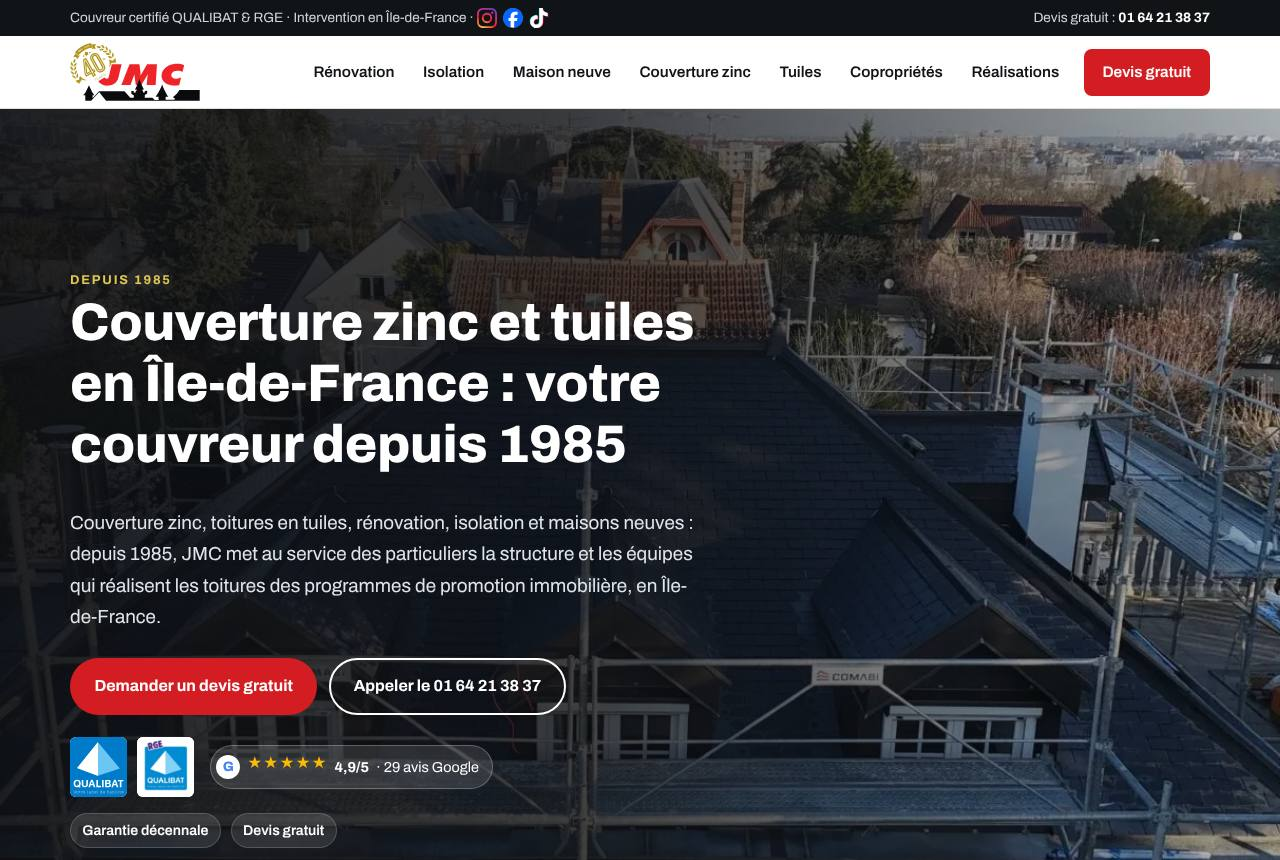
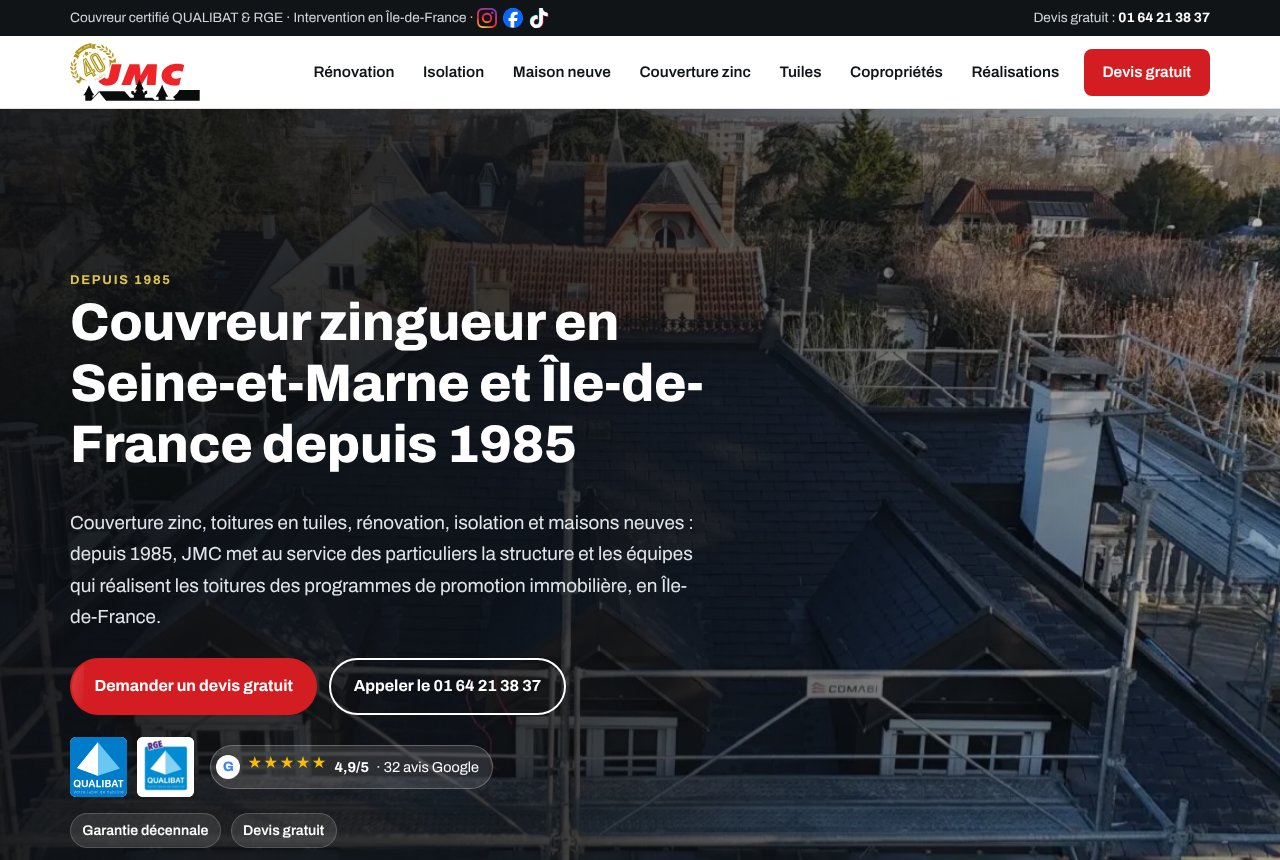
Refresh portfolio screenshots and client descriptions
Retake all six site screenshots. OF Entretiens has been redesigned
around building maintenance in Montfermeil and JMC Couverture now
presents itself as a roofer in Courtry (77); their cards, alt texts and
llms.txt entries follow the live sites.

Claude-Session: https://claude.ai/code/session_01DKCMmHoai7A45DxxNk3rN4

diff --git a/nastudio/sites.html b/nastudio/sites.html
@@ -147,11 +147,11 @@
         </div>
       </article>
       <article class="work">
-        <div class="shot"><img src="assets/shot-jmccouverture.jpg" width="1280" height="860" loading="lazy" alt="Page d'accueil du site JMC Couverture : couvreur zinc et tuiles en Île-de-France"></div>
+        <div class="shot"><img src="assets/shot-jmccouverture.jpg" width="1280" height="860" loading="lazy" alt="Page d'accueil du site JMC Couverture : couvreur zingueur en Seine-et-Marne et Île-de-France depuis 1985"></div>
         <div class="body">
-          <p class="meta mono"><span>Couverture · BTP</span><span>Île-de-France</span></p>
+          <p class="meta mono"><span>Couverture · BTP</span><span>Courtry (77) · Île-de-France</span></p>
           <h3>JMC Couverture</h3>
-          <p>Couvreur depuis 1985, certifié QUALIBAT &amp; RGE. Site avec vidéo drone des chantiers, pages par prestation et avis Google mis en avant.</p>
+          <p>Couvreur zingueur depuis 1985, certifié QUALIBAT &amp; RGE : zinc, tuiles, ardoise, isolation. Site avec vidéo drone des chantiers, pages par spécialité et avis Google mis en avant.</p>
           <div class="chips"><span class="chip">4,9/5 · 29 avis Google</span><span class="chip">QUALIBAT · RGE</span></div>
           <p class="visit"><a href="https://jmccouverture.com" target="_blank" rel="noopener">Visiter jmccouverture.com →</a></p>
         </div>
@@ -167,12 +167,12 @@
         </div>
       </article>
       <article class="work">
-        <div class="shot"><img src="assets/shot-ofentretiens.jpg" width="1280" height="860" loading="lazy" alt="Page d'accueil du site OF Entretiens : corvoyage, visites de livraison et interventions en Île-de-France"></div>
+        <div class="shot"><img src="assets/shot-ofentretiens.jpg" width="1280" height="860" loading="lazy" alt="Page d'accueil du site OF Entretiens : spécialiste de l'entretien de bâtiments à Montfermeil"></div>
         <div class="body">
-          <p class="meta mono"><span>Services au BTP</span><span>Montfermeil (93) · Île-de-France</span></p>
+          <p class="meta mono"><span>Entretien de bâtiments</span><span>Montfermeil (93) · Île-de-France</span></p>
           <h3>OF Entretiens</h3>
-          <p>Partenaire des promoteurs et plateformes logistiques : corvoyage, levée de réserves, urgences. Site orienté devis, pensé pour une clientèle B2B.</p>
-          <div class="chips"><span class="chip">B2B · promoteurs</span><span class="chip">8 départements couverts</span></div>
+          <p>Entretien de bâtiments pour les promoteurs et les entreprises : carottage en urgence, corvoyage, nettoyage de bureaux et de façades. Site avec estimation d'intervention en ligne, références clients et devis gratuit.</p>
+          <div class="chips"><span class="chip">Estimation en ligne</span><span class="chip">B2B · promoteurs</span></div>
           <p class="visit"><a href="https://www.ofentretiens.com" target="_blank" rel="noopener">Visiter ofentretiens.com →</a></p>
         </div>
       </article>

diff --git a/nastudio/index.html b/nastudio/index.html
@@ -428,8 +428,8 @@ footer::before{content:"";position:absolute;left:50%;top:-40%;width:90%;height:8
           <div class="b"><div class="m"><span>Bijouterie</span><span>Saint-Maur (94)</span></div><h3>Atelier Baratte · 5,0/5 Google</h3></div>
         </a>
         <a class="site-card rv" style="--i:1" href="https://jmccouverture.com" target="_blank" rel="noopener">
-          <div class="shot"><img src="assets/shot-jmccouverture.jpg" width="1280" height="860" loading="lazy" alt="Site du couvreur JMC Couverture en Île-de-France"></div>
-          <div class="b"><div class="m"><span>Couverture</span><span>Île-de-France</span></div><h3>JMC Couverture · QUALIBAT RGE</h3></div>
+          <div class="shot"><img src="assets/shot-jmccouverture.jpg" width="1280" height="860" loading="lazy" alt="Site du couvreur zingueur JMC Couverture en Seine-et-Marne et Île-de-France"></div>
+          <div class="b"><div class="m"><span>Couverture</span><span>Courtry (77)</span></div><h3>JMC Couverture · QUALIBAT RGE</h3></div>
         </a>
         <a class="site-card rv" style="--i:2" href="https://ajr-concept.netlify.app" target="_blank" rel="noopener">
           <div class="shot"><img src="assets/shot-ajrconcept.jpg" width="1280" height="860" loading="lazy" alt="Site d'AJR Concept, rénovation en Seine-et-Marne"></div>
@@ -440,8 +440,8 @@ footer::before{content:"";position:absolute;left:50%;top:-40%;width:90%;height:8
           <div class="b"><div class="m"><span>Permis de construire</span><span>Saint-Maur (94)</span></div><h3>Construisez · depuis 2018</h3></div>
         </a>
         <a class="site-card rv" style="--i:4" href="https://www.ofentretiens.com" target="_blank" rel="noopener">
-          <div class="shot"><img src="assets/shot-ofentretiens.jpg" width="1280" height="860" loading="lazy" alt="Site d'OF Entretiens, corvoyage et services aux promoteurs en Île-de-France"></div>
-          <div class="b"><div class="m"><span>Services BTP</span><span>Montfermeil (93)</span></div><h3>OF Entretiens</h3></div>
+          <div class="shot"><img src="assets/shot-ofentretiens.jpg" width="1280" height="860" loading="lazy" alt="Site d'OF Entretiens, entretien de bâtiments à Montfermeil"></div>
+          <div class="b"><div class="m"><span>Entretien de bâtiments</span><span>Montfermeil (93)</span></div><h3>OF Entretiens</h3></div>
         </a>
         <a class="site-card rv" style="--i:5" href="https://riz-djondjon-maquette.netlify.app" target="_blank" rel="noopener">
           <div class="shot"><img src="assets/shot-rizdjondjon.jpg" width="1280" height="860" loading="lazy" alt="Maquette de site pour Riz Djondjon, restaurant haïtien à Paris 2e"></div>

diff --git a/nastudio/preview.html b/nastudio/preview.html
@@ -377,8 +377,8 @@ footer::before{content:"";position:absolute;left:50%;top:-40%;width:90%;height:8
           <div class="b"><div class="m"><span>Bijouterie</span><span>Saint-Maur (94)</span></div><h3>Atelier Baratte · 5,0/5 Google</h3></div>
         </a>
         <a class="site-card rv" style="--i:1" href="https://jmccouverture.com" target="_blank" rel="noopener">
-          <div class="shot"><img src="assets/shot-jmccouverture.jpg" width="1280" height="860" loading="lazy" alt="Site du couvreur JMC Couverture en Île-de-France"></div>
-          <div class="b"><div class="m"><span>Couverture</span><span>Île-de-France</span></div><h3>JMC Couverture · QUALIBAT RGE</h3></div>
+          <div class="shot"><img src="assets/shot-jmccouverture.jpg" width="1280" height="860" loading="lazy" alt="Site du couvreur zingueur JMC Couverture en Seine-et-Marne et Île-de-France"></div>
+          <div class="b"><div class="m"><span>Couverture</span><span>Courtry (77)</span></div><h3>JMC Couverture · QUALIBAT RGE</h3></div>
         </a>
         <a class="site-card rv" style="--i:2" href="https://ajr-concept.netlify.app" target="_blank" rel="noopener">
           <div class="shot"><img src="assets/shot-ajrconcept.jpg" width="1280" height="860" loading="lazy" alt="Site d'AJR Concept, rénovation en Seine-et-Marne"></div>
@@ -389,8 +389,8 @@ footer::before{content:"";position:absolute;left:50%;top:-40%;width:90%;height:8
           <div class="b"><div class="m"><span>Permis de construire</span><span>Saint-Maur (94)</span></div><h3>Construisez · depuis 2018</h3></div>
         </a>
         <a class="site-card rv" style="--i:4" href="https://www.ofentretiens.com" target="_blank" rel="noopener">
-          <div class="shot"><img src="assets/shot-ofentretiens.jpg" width="1280" height="860" loading="lazy" alt="Site d'OF Entretiens, corvoyage et services aux promoteurs en Île-de-France"></div>
-          <div class="b"><div class="m"><span>Services BTP</span><span>Montfermeil (93)</span></div><h3>OF Entretiens</h3></div>
+          <div class="shot"><img src="assets/shot-ofentretiens.jpg" width="1280" height="860" loading="lazy" alt="Site d'OF Entretiens, entretien de bâtiments à Montfermeil"></div>
+          <div class="b"><div class="m"><span>Entretien de bâtiments</span><span>Montfermeil (93)</span></div><h3>OF Entretiens</h3></div>
         </a>
         <a class="site-card rv" style="--i:5" href="https://riz-djondjon-maquette.netlify.app" target="_blank" rel="noopener">
           <div class="shot"><img src="assets/shot-rizdjondjon.jpg" width="1280" height="860" loading="lazy" alt="Maquette de site pour Riz Djondjon, restaurant haïtien à Paris 2e"></div>
